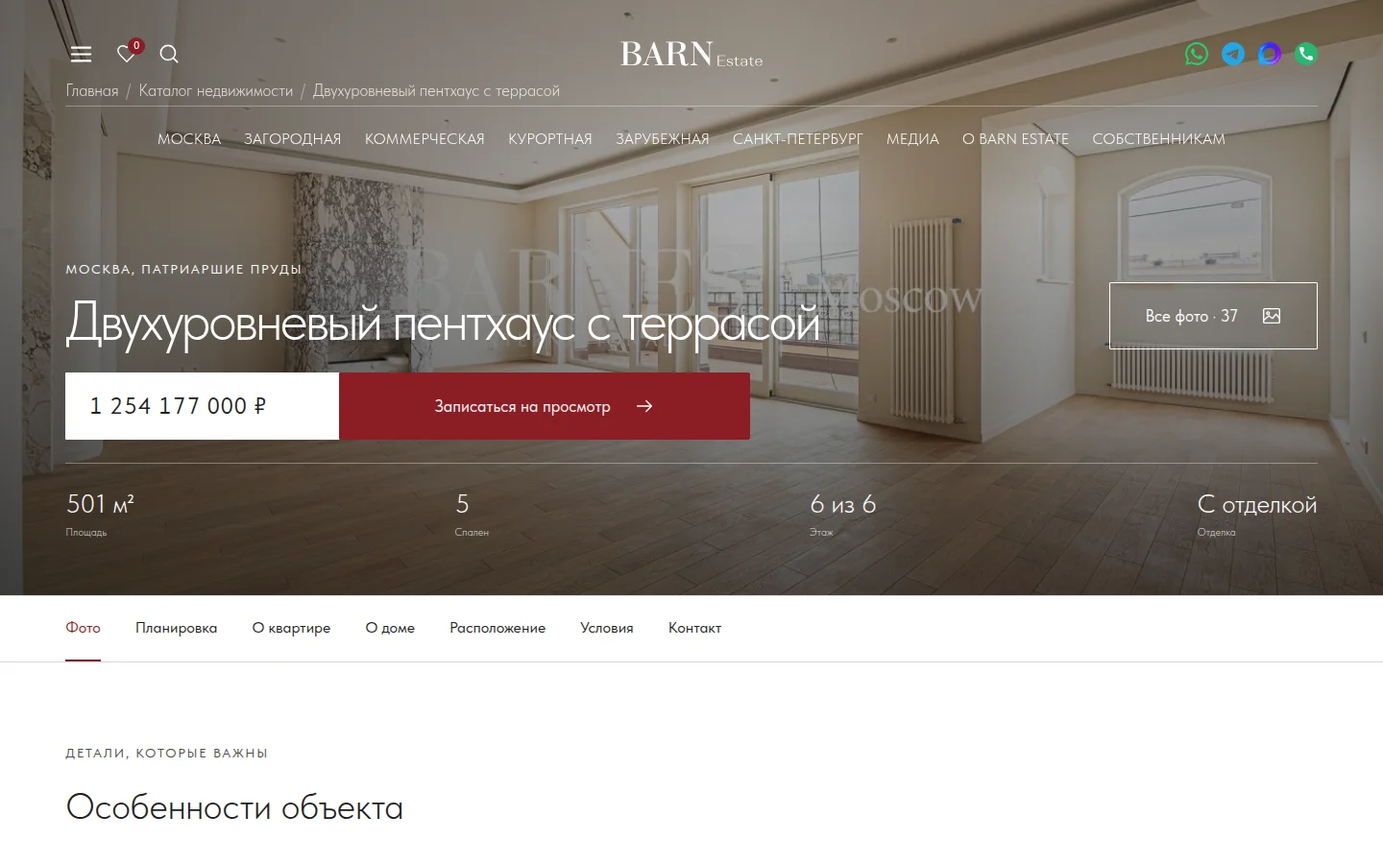
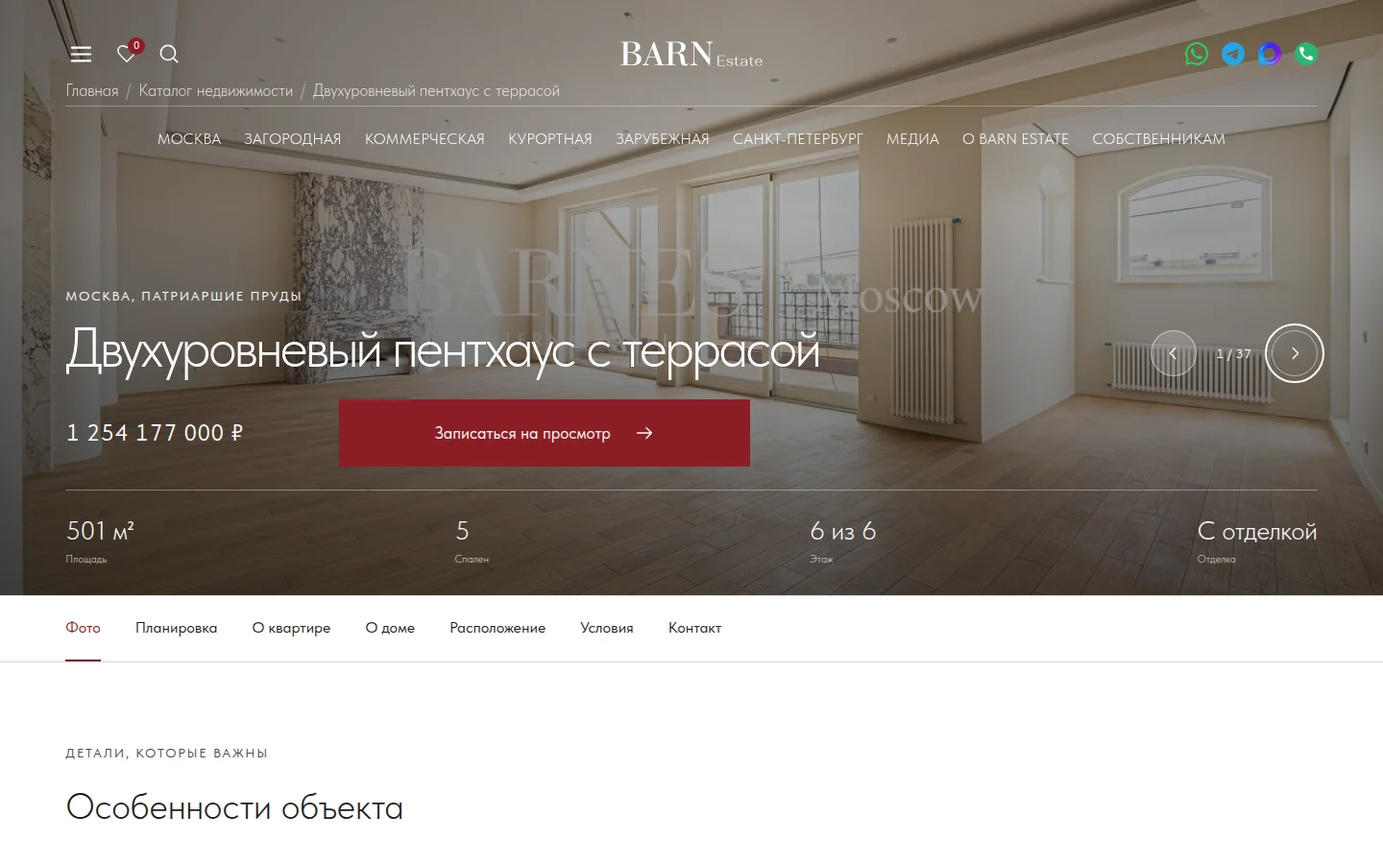
Use direct photo slider in lot hero and simplify price styling

diff --git a/stranitsa-lota/hero-options/index.html b/stranitsa-lota/hero-options/index.html
@@ -1,1 +1,1 @@
-<!doctype html><html lang="ru"><head><meta charset="utf-8"><meta name="viewport" content="width=device-width,initial-scale=1"><meta name="robots" content="noindex,nofollow"><title>Варианты херо — BARN Estate</title><style>@font-face{font-family:Tilda Sans;src:url('../fonts/TildaSans-Light.woff2') format('woff2');font-weight:300;font-display:swap}@font-face{font-family:Tilda Sans;src:url('../fonts/TildaSans-Regular.woff2') format('woff2');font-weight:400;font-display:swap}*{box-sizing:border-box}body{margin:0;color:#1e1e1e;background:#fff;font:300 18px/1.5 'Tilda Sans',Arial,sans-serif}a{color:inherit}header,main{max-width:1920px;margin:auto;padding-inline:clamp(24px,calc(-26.66667px + 6.59722vw),100px)}header{display:flex;align-items:center;justify-content:space-between;gap:24px;padding-block:28px;border-bottom:1px solid #d8d6d2}header img{width:172px;height:48px}header a:last-child{font-size:15px;text-underline-offset:4px}main{padding-block:72px 100px}h1{font-size:44px;line-height:1.2;font-weight:300;max-width:920px;margin:0}main>p{font-size:22px;line-height:33px;color:#4f4d49;max-width:970px;margin:24px 0 0}.eyebrow{font-size:14px;font-weight:400;letter-spacing:.12em;text-transform:uppercase;color:#4f4d49;margin:0}.quick-links{display:flex;gap:12px;flex-wrap:wrap;margin:32px 0 48px}.quick-links a{display:flex;align-items:center;justify-content:center;width:44px;height:44px;text-decoration:none;border:1px solid #8b8986;border-radius:1px;font-size:17px;font-weight:400}.cards{display:grid;grid-template-columns:1fr 1fr;gap:64px 40px}article{border-top:1px solid #d8d6d2;padding-top:24px;scroll-margin-top:24px}article:last-child{grid-column:1/-1;max-width:950px}.card-top{display:flex;align-items:center;justify-content:space-between;gap:20px}.recommend{font-size:13px;line-height:18px;color:#8b1d25}.cards h2{font-size:28px;line-height:1.2;font-weight:300;margin:20px 0 28px}.shots{display:grid;grid-template-columns:minmax(0,1fr) 88px;gap:12px;background:#f7f6f4;padding:12px;align-items:center}.shots img{width:100%;height:auto;display:block}.shots .phone{border:1px solid #d8d6d2}.description{font-size:20px;line-height:1.5;margin:24px 0 12px}.why{font-size:16px;line-height:1.5;color:#656462;margin:0 0 24px}.button{display:inline-flex;align-items:center;justify-content:space-between;gap:32px;min-height:70px;padding:16px 36px;background:#8b1d25;border:1px solid #8b1d25;border-radius:1px;font-size:17px;line-height:1.1;font-weight:400;color:#fff;text-decoration:none}.button span{font-size:22px}a:focus-visible{outline:2px solid #8b1d25;outline-offset:5px}@media(min-width:1441px){.button{font-size:19px;padding-inline:47px}}@media(max-width:900px){.cards{grid-template-columns:1fr;gap:48px}.cards article:last-child{grid-column:auto}}@media(max-width:540px){header,main{padding-inline:22px}header{padding-block:20px;gap:16px}header img{width:130px;height:36px}header a:last-child{font-size:13px}main{padding-block:48px}h1{font-size:22px}.eyebrow{font-size:12px}main>p{font-size:15px;line-height:21px;margin-top:16px}.quick-links{margin-bottom:32px}.cards h2{font-size:22px;margin-block:16px 24px}.shots{display:block;padding:0}.shots .phone{display:none}.description{font-size:17px;margin-top:20px}.why{font-size:15px}.button{width:100%;min-height:58px;padding:14px 24px;font-size:18px}}@media(prefers-reduced-motion:reduce){*{scroll-behavior:auto!important}}</style></head><body><header><a href="../"><img src="../kit/assets/logo.svg" alt="BARN Estate" width="172" height="48"></a><a href="../">К странице лота</a></header><main><p class="eyebrow" style="margin-bottom:24px">Страница лота · выбор первого экрана</p><h1>Пять вариантов херо с крупной фотографией</h1><p>Фотография занимает всю ширину. У варианта №3 высота совпадает с главной страницей на всех брейкпоинтах. Шрифты, цвета и кнопки — из нашего UI-кита.</p><nav class="quick-links" aria-label="Варианты херо"><a href="#variant-1" aria-label="Вариант 1">01</a><a href="#variant-2" aria-label="Вариант 2">02</a><a href="#variant-3" aria-label="Вариант 3">03</a><a href="#variant-4" aria-label="Вариант 4">04</a><a href="#variant-5" aria-label="Вариант 5">05</a></nav><div class="cards"><article id="variant-1"><div class="card-top"><p class="eyebrow">Вариант 01</p><span class="recommend">Рекомендую</span></div><h2>Текст поверх фотографии</h2><a class="shots" href="../?hero=1&amp;v=hero-options-20261110" aria-label="Открыть вариант 1: Текст поверх фотографии"><img src="previews/1-desktop.webp" width="1440" height="900" alt="Вариант 1 на компьютере" loading="lazy"><img class="phone" src="previews/1-mobile.webp" width="390" height="844" alt="Вариант 1 на телефоне" loading="lazy"></a><p class="description">Название и описание слева, цена и запись справа. Максимум фотографии и минимум отдельных панелей.</p><p class="why">Спокойный и универсальный вариант.</p><a class="button" href="../?hero=1&amp;v=hero-options-20261110">Открыть вариант 1<span aria-hidden="true">↗</span></a></article><article id="variant-2"><div class="card-top"><p class="eyebrow">Вариант 02</p></div><h2>Белая карточка</h2><a class="shots" href="../?hero=2&amp;v=hero-options-20261110" aria-label="Открыть вариант 2: Белая карточка"><img src="previews/2-desktop.webp" width="1440" height="900" alt="Вариант 2 на компьютере" loading="lazy"><img class="phone" src="previews/2-mobile.webp" width="390" height="844" alt="Вариант 2 на телефоне" loading="lazy"></a><p class="description">Фотография продолжается за карточкой с ценой, параметрами и брокером. На телефоне карточка становится компактной.</p><p class="why">Самый привычный сценарий выбора объекта.</p><a class="button" href="../?hero=2&amp;v=hero-options-20261110">Открыть вариант 2<span aria-hidden="true">↗</span></a></article><article id="variant-3"><div class="card-top"><p class="eyebrow">Вариант 03</p></div><h2>Крупный заголовок и курортная подача характеристик</h2><a class="shots" href="../?hero=3&amp;v=mobile-hero-20261111" aria-label="Открыть вариант 3: Крупный заголовок и курортная подача характеристик"><img src="previews/3-desktop.webp?v=resort-facts" width="1440" height="900" alt="Вариант 3 на компьютере" loading="lazy"><img class="phone" src="previews/3-mobile.webp?v=mobile-hero-20261111?v=resort-facts" width="390" height="844" alt="Вариант 3 на телефоне" loading="lazy"></a><p class="description">Крупный заголовок, компактная цена и запись. Ниже — крупные значения характеристик с короткими подписями прямо на фотографии, как в наших курортных лендингах.</p><p class="why">Характеристики оформлены по приёму херо «Кедров»: значение сверху, подпись снизу, тонкая линия.</p><a class="button" href="../?hero=3&amp;v=mobile-hero-20261111">Открыть вариант 3<span aria-hidden="true">↗</span></a></article><article id="variant-4"><div class="card-top"><p class="eyebrow">Вариант 04</p></div><h2>Композиция по центру</h2><a class="shots" href="../?hero=4&amp;v=hero-options-20261110" aria-label="Открыть вариант 4: Композиция по центру"><img src="previews/4-desktop.webp" width="1440" height="900" alt="Вариант 4 на компьютере" loading="lazy"><img class="phone" src="previews/4-mobile.webp" width="390" height="844" alt="Вариант 4 на телефоне" loading="lazy"></a><p class="description">Название, описание и галерея собраны по центральной оси. Цена и просмотр — ниже, на той же оси.</p><p class="why">Подходит для акцентного архитектурного или интерьерного кадра.</p><a class="button" href="../?hero=4&amp;v=hero-options-20261110">Открыть вариант 4<span aria-hidden="true">↗</span></a></article><article id="variant-5"><div class="card-top"><p class="eyebrow">Вариант 05</p></div><h2>Лента кадров</h2><a class="shots" href="../?hero=5&amp;v=hero-options-20261110" aria-label="Открыть вариант 5: Лента кадров"><img src="previews/5-desktop.webp" width="1440" height="900" alt="Вариант 5 на компьютере" loading="lazy"><img class="phone" src="previews/5-mobile.webp" width="390" height="844" alt="Вариант 5 на телефоне" loading="lazy"></a><p class="description">Полноэкранная фотография с тремя миниатюрами для переключения. Название и стоимость остаются поверх изображения.</p><p class="why">Позволяет начать изучение квартиры прямо с первого экрана.</p><a class="button" href="../?hero=5&amp;v=hero-options-20261110">Открыть вариант 5<span aria-hidden="true">↗</span></a></article></div></main></body></html>
+<!doctype html><html lang="ru"><head><meta charset="utf-8"><meta name="viewport" content="width=device-width,initial-scale=1"><meta name="robots" content="noindex,nofollow"><title>Варианты херо — BARN Estate</title><style>@font-face{font-family:Tilda Sans;src:url('../fonts/TildaSans-Light.woff2') format('woff2');font-weight:300;font-display:swap}@font-face{font-family:Tilda Sans;src:url('../fonts/TildaSans-Regular.woff2') format('woff2');font-weight:400;font-display:swap}*{box-sizing:border-box}body{margin:0;color:#1e1e1e;background:#fff;font:300 18px/1.5 'Tilda Sans',Arial,sans-serif}a{color:inherit}header,main{max-width:1920px;margin:auto;padding-inline:clamp(24px,calc(-26.66667px + 6.59722vw),100px)}header{display:flex;align-items:center;justify-content:space-between;gap:24px;padding-block:28px;border-bottom:1px solid #d8d6d2}header img{width:172px;height:48px}header a:last-child{font-size:15px;text-underline-offset:4px}main{padding-block:72px 100px}h1{font-size:44px;line-height:1.2;font-weight:300;max-width:920px;margin:0}main>p{font-size:22px;line-height:33px;color:#4f4d49;max-width:970px;margin:24px 0 0}.eyebrow{font-size:14px;font-weight:400;letter-spacing:.12em;text-transform:uppercase;color:#4f4d49;margin:0}.quick-links{display:flex;gap:12px;flex-wrap:wrap;margin:32px 0 48px}.quick-links a{display:flex;align-items:center;justify-content:center;width:44px;height:44px;text-decoration:none;border:1px solid #8b8986;border-radius:1px;font-size:17px;font-weight:400}.cards{display:grid;grid-template-columns:1fr 1fr;gap:64px 40px}article{border-top:1px solid #d8d6d2;padding-top:24px;scroll-margin-top:24px}article:last-child{grid-column:1/-1;max-width:950px}.card-top{display:flex;align-items:center;justify-content:space-between;gap:20px}.recommend{font-size:13px;line-height:18px;color:#8b1d25}.cards h2{font-size:28px;line-height:1.2;font-weight:300;margin:20px 0 28px}.shots{display:grid;grid-template-columns:minmax(0,1fr) 88px;gap:12px;background:#f7f6f4;padding:12px;align-items:center}.shots img{width:100%;height:auto;display:block}.shots .phone{border:1px solid #d8d6d2}.description{font-size:20px;line-height:1.5;margin:24px 0 12px}.why{font-size:16px;line-height:1.5;color:#656462;margin:0 0 24px}.button{display:inline-flex;align-items:center;justify-content:space-between;gap:32px;min-height:70px;padding:16px 36px;background:#8b1d25;border:1px solid #8b1d25;border-radius:1px;font-size:17px;line-height:1.1;font-weight:400;color:#fff;text-decoration:none}.button span{font-size:22px}a:focus-visible{outline:2px solid #8b1d25;outline-offset:5px}@media(min-width:1441px){.button{font-size:19px;padding-inline:47px}}@media(max-width:900px){.cards{grid-template-columns:1fr;gap:48px}.cards article:last-child{grid-column:auto}}@media(max-width:540px){header,main{padding-inline:22px}header{padding-block:20px;gap:16px}header img{width:130px;height:36px}header a:last-child{font-size:13px}main{padding-block:48px}h1{font-size:22px}.eyebrow{font-size:12px}main>p{font-size:15px;line-height:21px;margin-top:16px}.quick-links{margin-bottom:32px}.cards h2{font-size:22px;margin-block:16px 24px}.shots{display:block;padding:0}.shots .phone{display:none}.description{font-size:17px;margin-top:20px}.why{font-size:15px}.button{width:100%;min-height:58px;padding:14px 24px;font-size:18px}}@media(prefers-reduced-motion:reduce){*{scroll-behavior:auto!important}}</style></head><body><header><a href="../"><img src="../kit/assets/logo.svg" alt="BARN Estate" width="172" height="48"></a><a href="../">К странице лота</a></header><main><p class="eyebrow" style="margin-bottom:24px">Страница лота · выбор первого экрана</p><h1>Пять вариантов херо с крупной фотографией</h1><p>Фотография занимает всю ширину. У варианта №3 высота совпадает с главной страницей на всех брейкпоинтах. Шрифты, цвета и кнопки — из нашего UI-кита.</p><nav class="quick-links" aria-label="Варианты херо"><a href="#variant-1" aria-label="Вариант 1">01</a><a href="#variant-2" aria-label="Вариант 2">02</a><a href="#variant-3" aria-label="Вариант 3">03</a><a href="#variant-4" aria-label="Вариант 4">04</a><a href="#variant-5" aria-label="Вариант 5">05</a></nav><div class="cards"><article id="variant-1"><div class="card-top"><p class="eyebrow">Вариант 01</p><span class="recommend">Рекомендую</span></div><h2>Текст поверх фотографии</h2><a class="shots" href="../?hero=1&amp;v=hero-options-20261110" aria-label="Открыть вариант 1: Текст поверх фотографии"><img src="previews/1-desktop.webp" width="1440" height="900" alt="Вариант 1 на компьютере" loading="lazy"><img class="phone" src="previews/1-mobile.webp" width="390" height="844" alt="Вариант 1 на телефоне" loading="lazy"></a><p class="description">Название и описание слева, цена и запись справа. Максимум фотографии и минимум отдельных панелей.</p><p class="why">Спокойный и универсальный вариант.</p><a class="button" href="../?hero=1&amp;v=hero-options-20261110">Открыть вариант 1<span aria-hidden="true">↗</span></a></article><article id="variant-2"><div class="card-top"><p class="eyebrow">Вариант 02</p></div><h2>Белая карточка</h2><a class="shots" href="../?hero=2&amp;v=hero-options-20261110" aria-label="Открыть вариант 2: Белая карточка"><img src="previews/2-desktop.webp" width="1440" height="900" alt="Вариант 2 на компьютере" loading="lazy"><img class="phone" src="previews/2-mobile.webp" width="390" height="844" alt="Вариант 2 на телефоне" loading="lazy"></a><p class="description">Фотография продолжается за карточкой с ценой, параметрами и брокером. На телефоне карточка становится компактной.</p><p class="why">Самый привычный сценарий выбора объекта.</p><a class="button" href="../?hero=2&amp;v=hero-options-20261110">Открыть вариант 2<span aria-hidden="true">↗</span></a></article><article id="variant-3"><div class="card-top"><p class="eyebrow">Вариант 03</p></div><h2>Крупный заголовок и курортная подача характеристик</h2><a class="shots" href="../?hero=3&amp;v=hero-slider-20261127" aria-label="Открыть вариант 3: Крупный заголовок и курортная подача характеристик"><img src="previews/3-desktop.webp?v=hero-slider-20261127" width="1440" height="900" alt="Вариант 3 на компьютере" loading="lazy"><img class="phone" src="previews/3-mobile.webp?v=hero-slider-20261127" width="390" height="844" alt="Вариант 3 на телефоне" loading="lazy"></a><p class="description">Крупный заголовок, цена без подложки и запись. Характеристики на фото по курортным лендингам; две стрелки сразу переключают кадры в херо.</p><p class="why">Характеристики оформлены по приёму херо «Кедров»: значение сверху, подпись снизу, тонкая линия.</p><a class="button" href="../?hero=3&amp;v=hero-slider-20261127">Открыть вариант 3<span aria-hidden="true">↗</span></a></article><article id="variant-4"><div class="card-top"><p class="eyebrow">Вариант 04</p></div><h2>Композиция по центру</h2><a class="shots" href="../?hero=4&amp;v=hero-options-20261110" aria-label="Открыть вариант 4: Композиция по центру"><img src="previews/4-desktop.webp" width="1440" height="900" alt="Вариант 4 на компьютере" loading="lazy"><img class="phone" src="previews/4-mobile.webp" width="390" height="844" alt="Вариант 4 на телефоне" loading="lazy"></a><p class="description">Название, описание и галерея собраны по центральной оси. Цена и просмотр — ниже, на той же оси.</p><p class="why">Подходит для акцентного архитектурного или интерьерного кадра.</p><a class="button" href="../?hero=4&amp;v=hero-options-20261110">Открыть вариант 4<span aria-hidden="true">↗</span></a></article><article id="variant-5"><div class="card-top"><p class="eyebrow">Вариант 05</p></div><h2>Лента кадров</h2><a class="shots" href="../?hero=5&amp;v=hero-options-20261110" aria-label="Открыть вариант 5: Лента кадров"><img src="previews/5-desktop.webp" width="1440" height="900" alt="Вариант 5 на компьютере" loading="lazy"><img class="phone" src="previews/5-mobile.webp" width="390" height="844" alt="Вариант 5 на телефоне" loading="lazy"></a><p class="description">Полноэкранная фотография с тремя миниатюрами для переключения. Название и стоимость остаются поверх изображения.</p><p class="why">Позволяет начать изучение квартиры прямо с первого экрана.</p><a class="button" href="../?hero=5&amp;v=hero-options-20261110">Открыть вариант 5<span aria-hidden="true">↗</span></a></article></div></main></body></html>

diff --git a/stranitsa-lota/lot-page.js b/stranitsa-lota/lot-page.js
@@ -93,10 +93,18 @@
     const phone = $('[name=phone]', node); phone.setAttribute('aria-describedby', prefix + '-error');
     return node;
   }
-  let lot;
+  function heroPhotos(data) {
+    const seen = new Set();
+    return [data.cover, ...(data.gallery || [])].filter(photo => {
+      const src = safeUrl(photo?.src, '');
+      if (!src || seen.has(src)) return false;
+      seen.add(src); return true;
+    });
+  }
+  let lot, heroIndex = 0;
   function render(data) {
     if (!data?.id || !data.title || !data.cover?.src) throw new Error('Для лота нужны id, title и cover.src');
-    lot = data; window.BARNES_LOT_DATA = data;
+    lot = data; heroIndex = 0; window.BARNES_LOT_DATA = data;
     main.replaceChildren();
     document.title = (data.pageTitle || data.title) + ' — BARN Estate';
     $('meta[name=description]').content = data.description || data.title;
@@ -109,17 +117,27 @@
     const title = el('h1', data.title); title.id = 'lot-title'; copy.append(title);
     if (data.description) copy.append(el('p', data.description, 'lead'));
     const actions = el('div', null, 'lot-hero__actions');
-    const photos = action('Все фото · ' + (data.gallery?.length || 1), 'gallery', 'button', 'photos');
     if (document.body.dataset.heroVariant === '3') {
-      photos.firstChild.remove();
-      const label = el('span', 'Все фото · ' + (data.gallery?.length || 1), 'lot-gallery-label');
-      const compact = el('span', (data.gallery?.length || 1) + ' фото', 'lot-gallery-label--compact');
-      compact.setAttribute('aria-hidden', 'true');
-      photos.prepend(label, compact);
+      const items = heroPhotos(data);
+      if (items.length > 1) {
+        actions.classList.add('lot-hero__slider');
+        actions.setAttribute('role', 'group');
+        actions.setAttribute('aria-label', 'Фотографии объекта');
+        const previous = el('button', null, 'icon-button'); previous.type = 'button';
+        previous.dataset.heroStep = '-1'; previous.setAttribute('aria-label', 'Предыдущее фото в херо'); previous.append(icon('left'));
+        const counter = el('span', '1 / ' + items.length, 'lot-hero__counter');
+        counter.setAttribute('aria-live', 'polite'); counter.setAttribute('aria-atomic', 'true');
+        const next = el('button', null, 'icon-button'); next.type = 'button';
+        next.dataset.heroStep = '1'; next.setAttribute('aria-label', 'Следующее фото в херо'); next.append(icon('right'));
+        actions.append(previous, counter, next); copy.append(actions);
+      }
+    } else {
+      const photos = action('Все фото · ' + (data.gallery?.length || 1), 'gallery', 'button', 'photos');
+      photos.setAttribute('aria-label', 'Открыть галерею фотографий');
+      actions.append(photos, link('Планировка', '#lot-plan', 'button button--outline'));
+      copy.append(actions);
     }
-    photos.setAttribute('aria-label', 'Открыть галерею фотографий');
-    actions.append(photos, link('Планировка', '#lot-plan', 'button button--outline'));
-    copy.append(actions); visual.append(copy);
+    visual.append(copy);
     const offer = el('aside', null, 'lot-offer'); offer.setAttribute('aria-label', 'Стоимость и контакт по лоту');
     offer.append(el('p', 'Лот ' + data.id + (data.statusLabel ? ' · ' + data.statusLabel : ''), 'lot-offer__meta'));
     const p = el('div'); p.append(el('p', price(data), 'lot-price'));
@@ -283,7 +301,36 @@
     $('#gallery-context').textContent = 'Лот ' + lot.id + ' · ' + lot.title;
     showPhoto(); galleryDialog.showModal(); $('.dialog-close', galleryDialog).focus({preventScroll: true});
   }
+  function advanceHero(offset) {
+    const items = heroPhotos(lot);
+    if (items.length < 2) return;
+    heroIndex = (heroIndex + offset + items.length) % items.length;
+    const selected = items[heroIndex], cover = $('.lot-hero__image');
+    cover.src = safeUrl(selected.src); cover.alt = selected.alt || '';
+    $('.lot-hero__counter').textContent = (heroIndex + 1) + ' / ' + items.length;
+  }
+  document.addEventListener('keydown', event => {
+    if (!event.target.closest('.lot-hero__slider')) return;
+    if (event.key === 'ArrowLeft' || event.key === 'ArrowRight') {
+      event.preventDefault(); advanceHero(event.key === 'ArrowRight' ? 1 : -1);
+    }
+  });
+  let heroTouch = null;
+  document.addEventListener('pointerdown', event => {
+    if (document.body.dataset.heroVariant !== '3' || event.pointerType !== 'touch' ||
+        !event.target.closest('.lot-hero') || event.target.closest('a,button,input')) return;
+    heroTouch = {id:event.pointerId,x:event.clientX,y:event.clientY};
+  }, {passive:true});
+  document.addEventListener('pointerup', event => {
+    if (!heroTouch || heroTouch.id !== event.pointerId) return;
+    const dx = event.clientX - heroTouch.x, dy = event.clientY - heroTouch.y;
+    heroTouch = null;
+    if (Math.abs(dx) > 60 && Math.abs(dx) > Math.abs(dy) * 1.2) advanceHero(dx < 0 ? 1 : -1);
+  }, {passive:true});
+  document.addEventListener('pointercancel', () => {heroTouch = null;}, {passive:true});
   document.addEventListener('click', event => {
+    const heroStep = event.target.closest('[data-hero-step]');
+    if (heroStep) {advanceHero(Number(heroStep.dataset.heroStep));return;}
     const thumbnail = event.target.closest('[data-hero-image]');
     if (thumbnail) {
       const selected = (lot.gallery?.length ? lot.gallery : [lot.cover])[Number(thumbnail.dataset.heroImage)];

diff --git a/stranitsa-lota/hero-variants.css b/stranitsa-lota/hero-variants.css
@@ -285,23 +285,31 @@ body[data-hero-variant="3"] .lot-hero:not([data-has-hero-facts]) .lot-offer {mar
   body[data-hero-variant="3"] .lot-hero__facts dt {font-size:10px}
 }
 
-/* Mobile composition: photo canvas, compact gallery, one unboxed offer. */
-.lot-gallery-label--compact {display:none}
+/* Direct hero slider and unboxed price, using the existing icon/button kit. */
+body[data-hero-variant="3"] .lot-hero {touch-action:pan-y pinch-zoom}
+body[data-hero-variant="3"] {--kit-hero-bottom:28px}
+body[data-hero-variant="3"] .lot-offer {background:transparent;color:#fff}
+body[data-hero-variant="3"] .lot-offer>div:first-of-type {padding:0 24px 0 0}
+body[data-hero-variant="3"] .lot-offer .lot-price {color:#fff}
+body[data-hero-variant="3"] .lot-hero__slider {display:flex;align-items:center;gap:16px}
+body[data-hero-variant="3"] .lot-hero__slider .icon-button {border-color:#ffffff80;color:#fff;flex:none}
+body[data-hero-variant="3"] .lot-hero__slider .icon-button:hover {background:#ffffff26}
+body[data-hero-variant="3"] .lot-hero__slider .icon-button:focus-visible {outline-color:#fff}
+body[data-hero-variant="3"] .lot-hero__counter {min-width:46px;font-size:14px;line-height:20px;font-weight:400;text-align:center;font-variant-numeric:tabular-nums;color:#fff}
+@media(min-width:1441px){body[data-hero-variant="3"] {--kit-hero-bottom:36px}}
+@media(max-width:1024px){body[data-hero-variant="3"] {--kit-hero-bottom:24px}}
 @media(max-width:768px){
   body[data-hero-variant="3"] .lot-hero__copy {position:static;order:1;margin-bottom:24px}
-  body[data-hero-variant="3"] .lot-hero__actions {position:absolute;top:128px;right:var(--hero-inset);margin:0;display:block}
-  body[data-hero-variant="3"] .lot-hero__actions .button {min-height:44px;padding:10px 14px;font-size:14px;line-height:20px;gap:10px;border-color:#ffffff80}
-  body[data-hero-variant="3"] .lot-hero__actions svg {width:18px;height:18px}
-  body[data-hero-variant="3"] .lot-gallery-label {display:none}
-  body[data-hero-variant="3"] .lot-gallery-label--compact {display:inline}
-  body[data-hero-variant="3"] .lot-hero__facts {order:2;margin-bottom:24px;padding-top:16px}
-  body[data-hero-variant="3"] .lot-offer {order:3;background:transparent;color:#fff;padding:0;margin-bottom:var(--kit-hero-bottom)}
-  body[data-hero-variant="3"] .lot-offer>div:first-of-type {padding:0 0 20px}
-  body[data-hero-variant="3"] .lot-offer .lot-price {color:#fff;font-size:28px;font-weight:300;line-height:1.2}
+  body[data-hero-variant="3"] .lot-hero__slider {position:absolute;top:128px;right:var(--hero-inset);margin:0}
+  body[data-hero-variant="3"] .lot-hero__slider .icon-button {width:44px;height:44px}
+  body[data-hero-variant="3"] .lot-hero__facts {order:2;margin-bottom:16px;padding-top:16px}
+  body[data-hero-variant="3"] .lot-offer {order:3;padding:0;margin-bottom:var(--kit-hero-bottom)}
+  body[data-hero-variant="3"] .lot-offer>div:first-of-type {padding:0 0 16px}
+  body[data-hero-variant="3"] .lot-offer .lot-price {font-size:28px;font-weight:300;line-height:1.2}
 }
 @media(max-width:540px){
-  body[data-hero-variant="3"] .lot-hero__actions {top:100px}
+  body[data-hero-variant="3"] {--kit-hero-bottom:16px}
+  body[data-hero-variant="3"] .lot-hero__slider {top:100px}
   body[data-hero-variant="3"] .lot-hero__copy .eyebrow {font-size:12px;line-height:16px;margin-bottom:12px}
   body[data-hero-variant="3"] .lot-hero__copy {margin-bottom:20px}
-  body[data-hero-variant="3"] .lot-hero__facts {margin-bottom:20px}
 }

diff --git a/stranitsa-lota/index.html b/stranitsa-lota/index.html
@@ -1,7 +1,7 @@
 <!DOCTYPE html><html lang="ru"><head><meta charset="utf-8"><meta name="viewport" content="width=device-width,initial-scale=1"><meta name="robots" content="noindex,nofollow"><meta name="description" content="Двухуровневый пентхаус с террасой в районе Патриарших прудов."><meta property="og:title" content="Двухуровневый пентхаус с террасой — BARN Estate"><meta property="og:description" content="Двухуровневый пентхаус с террасой в районе Патриарших прудов."><meta property="og:image" content="assets/source/033e8fa88f8a.jpg"><meta name="theme-color" content="#ffffff"><title>Двухуровневый пентхаус с террасой — BARN Estate</title>
 <link rel="icon" href="kit/assets/logo.svg"><link rel="preload" href="fonts/TildaSans-Light.woff2" as="font" type="font/woff2" crossorigin="">
-<link rel="stylesheet" href="kit/vendor/media-header.css"><link rel="stylesheet" href="kit/vendor/header-navigation.css?v=f7248c22fe"><link rel="stylesheet" href="kit/vendor/footer.css?v=3d9a33bacd"><link rel="stylesheet" href="lot-page.css?v=843f29fce6"><link rel="stylesheet" href="hero-variants.css?v=163dbc71a1"><link rel="stylesheet" href="kit/vendor/page-breadcrumbs.css?v=7a58ed93dc">
-<script defer="" src="lot-data.js?v=390b9bc4a8"></script><script defer="" src="lot-page.js?v=37d2c63aa2"></script><script defer="" src="kit/vendor/media-header.js"></script><script defer="" src="kit/vendor/header-navigation.js"></script><script defer="" src="kit/vendor/page-breadcrumbs.js?v=9ba4a0fec8" data-page="lot"></script></head>
+<link rel="stylesheet" href="kit/vendor/media-header.css"><link rel="stylesheet" href="kit/vendor/header-navigation.css?v=f7248c22fe"><link rel="stylesheet" href="kit/vendor/footer.css?v=3d9a33bacd"><link rel="stylesheet" href="lot-page.css?v=843f29fce6"><link rel="stylesheet" href="hero-variants.css?v=bc060079ad"><link rel="stylesheet" href="kit/vendor/page-breadcrumbs.css?v=7a58ed93dc">
+<script defer="" src="lot-data.js?v=390b9bc4a8"></script><script defer="" src="lot-page.js?v=46308fc32a"></script><script defer="" src="kit/vendor/media-header.js"></script><script defer="" src="kit/vendor/header-navigation.js"></script><script defer="" src="kit/vendor/page-breadcrumbs.js?v=9ba4a0fec8" data-page="lot"></script></head>
 <body class="lot-page"><a class="skip-link" href="#main">К содержанию лота</a>
 <header class="site-header" data-v-6d58c4a7="" data-v-63dbb988=""><div class="site-header__inner base-container" data-v-63dbb988=""><div class="site-header__top" data-v-63dbb988=""><div class="site-header__left" data-v-63dbb988=""><button type="button" class="site-header__icon-btn" aria-expanded="false" aria-controls="site-mobile-menu" aria-label="Открыть меню" data-v-63dbb988=""><span class="ui-icon ui-icon-current site-header__icon" data-v-63dbb988="" data-v-8bd2f545=""><svg xmlns="http://www.w3.org/2000/svg" width="24" height="24" viewBox="0 0 24 24" fill="none" stroke="currentColor" stroke-width="1.5" stroke-linecap="round">
   <path d="M5 7h14"></path>

diff --git a/stranitsa-lota/README.md b/stranitsa-lota/README.md
@@ -1,3 +1,5 @@
+[Херо обновлён ·27.11.2026](https://daniilterekh-prog.github.io/barn-estate-homepage-clone/stranitsa-lota/?hero=3&v=hero-slider-20261127): цена без подложки, меньшие нижние отступы, листание фото стрелками в самом херо.
+
 [Мобильный херо обновлён ·11.11.2026](https://daniilterekh-prog.github.io/barn-estate-homepage-clone/stranitsa-lota/?hero=3&v=mobile-hero-20261111): цена на фотографии, компактная галерея, одна основная кнопка.
 
 [Вариант 3: характеристики по курортным лендингам · 10.11.2026](https://daniilterekh-prog.github.io/barn-estate-homepage-clone/stranitsa-lota/?hero=3&v=resort-facts-20261110). Крупные значения и подписи на фотографии по примеру «Кедров», компактная цена и запись; сохранены Tilda Sans, роли H1/CTA и высота главной. [Источник и проверки](https://github.com/daniilterekh-prog/barnes-sites/blob/main/main-site/pages/lot/HERO-OPTIONS.md).
